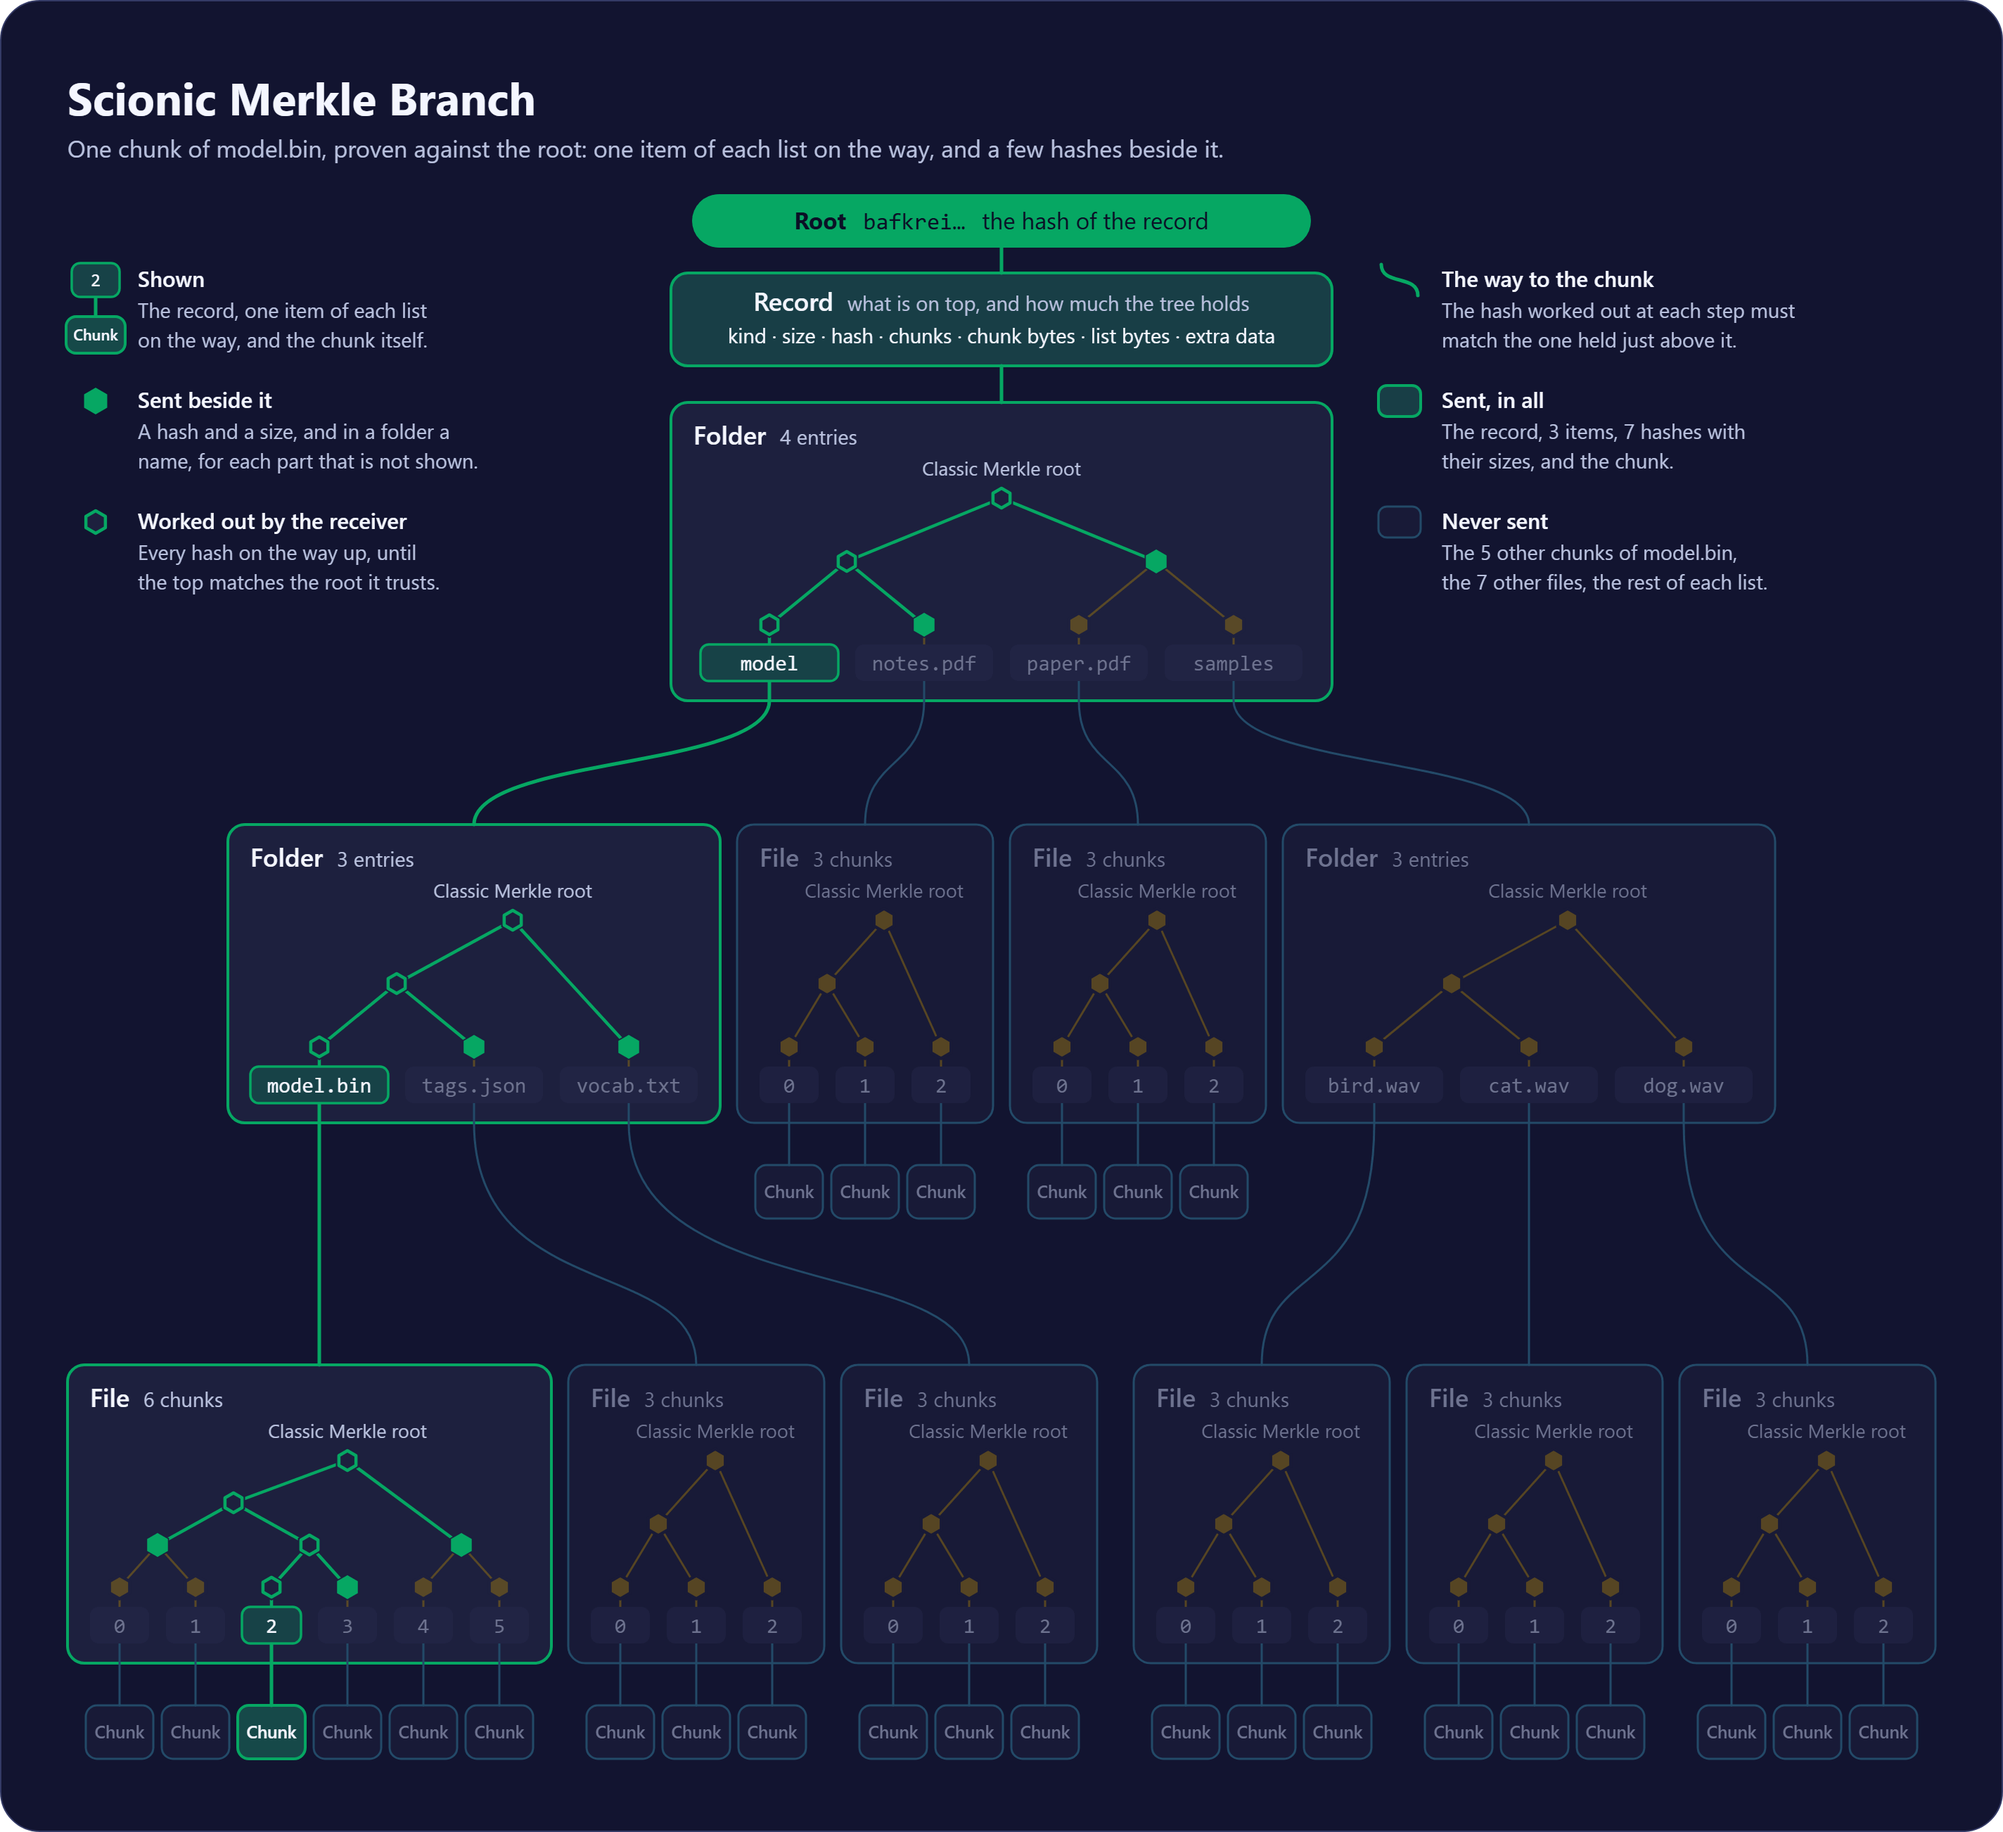
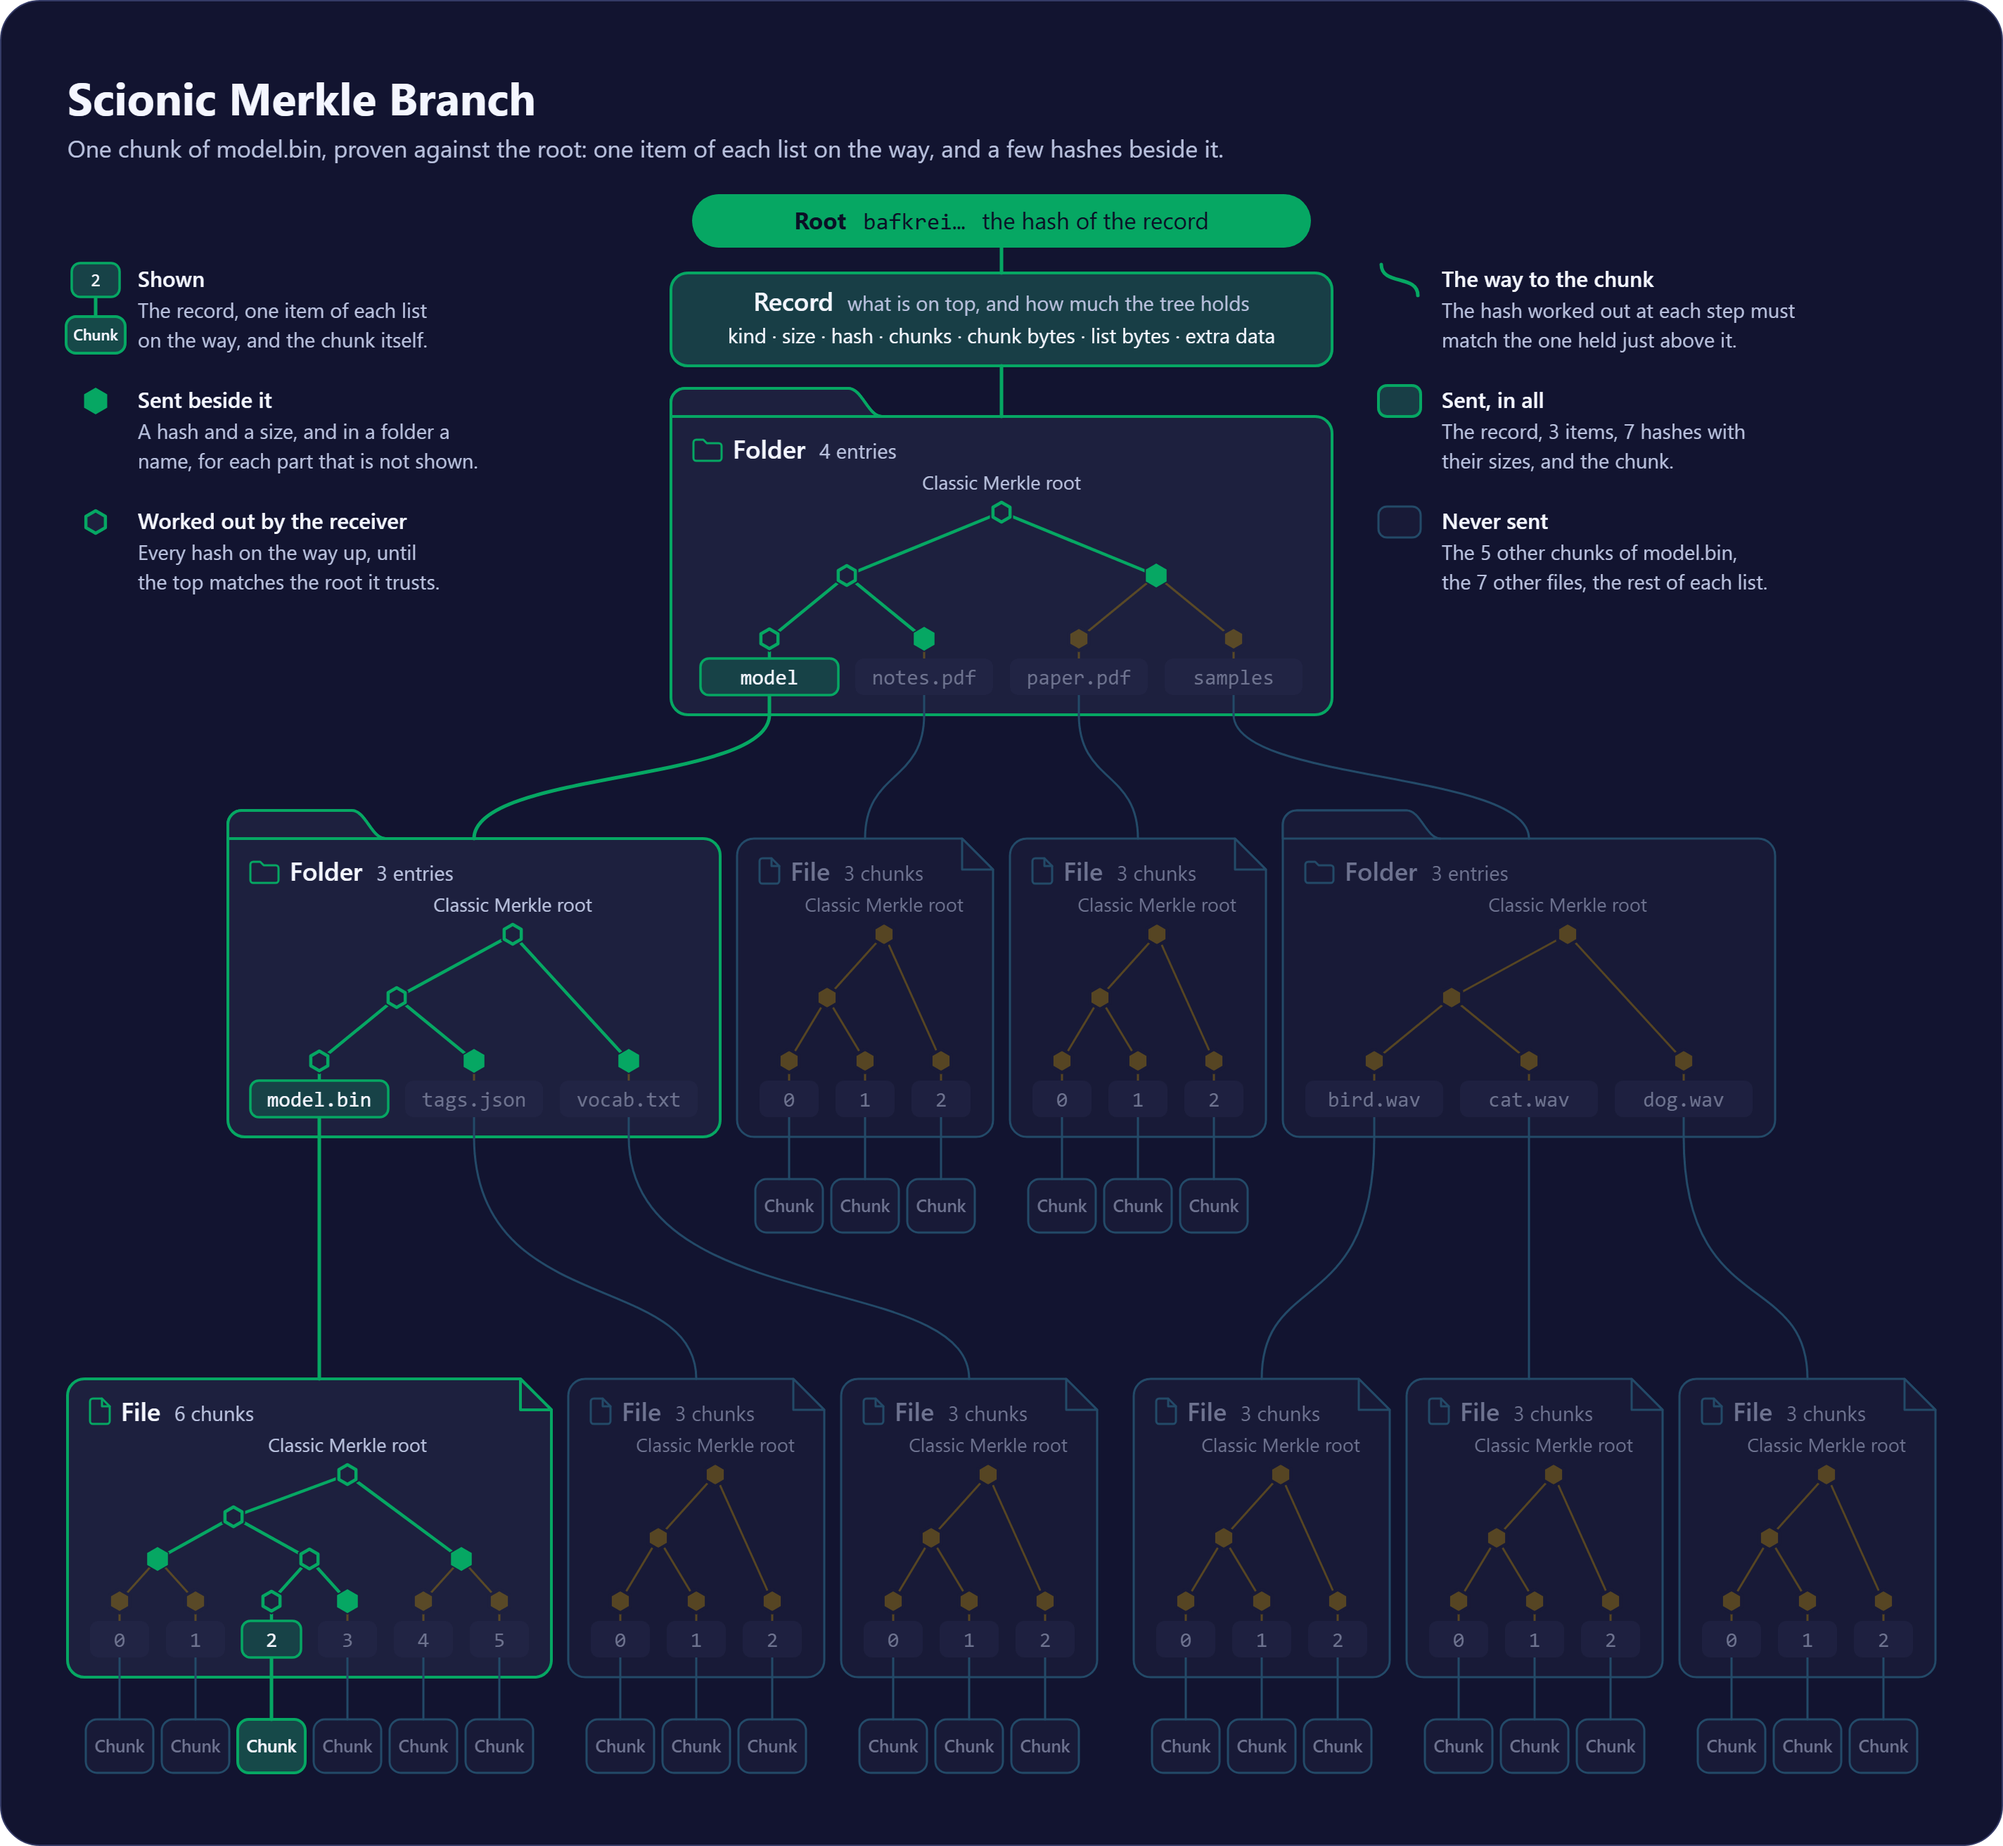
docs: a folder looks like a folder, and a file like a file
In the two tree pictures a folder and a file were the same box with a
different word in it, so the picture read as one large tree, and what is a
folder was hard to tell.

- A folder's box has a tab over its top left corner, as a folder has. A
  file's box has its top right corner folded down, as a sheet has.
- Each has a small picture of itself beside its word, and the key has
  both beside "Folder and file".
- In the tree picture the tab and the folded corner are tinted. In the
  branch picture they are outlines only, because there a fill says what
  is shown or sent.
- A box's place and size are those of its body, so the boxes of a row
  still line up at the top and at the bottom. A folder's tab stands over
  that, and the folder on top stands 10 units lower to leave it room.

diff --git a/docs/pictures/README.md b/docs/pictures/README.md
@@ -30,9 +30,10 @@ Everything a picture says is at the top of `pictures.mjs` or in the function tha
 
 - **`SYNC`** is the name of the protocol that asks for a file's chunks by their numbers.
 - **`TOP`, `LEFT` and `RIGHT`** are the names in the example tree: the folder on top holds a folder, two files and a folder, and each of those two folders holds three files. The names must be in the order of their bytes, as a folder's entries are, and the program refuses them otherwise. The first and the last name of `TOP` are the two folders.
-- **`CHUNKS`** is how many chunks each file has. Every file is drawn the way a folder is: a box with the Classic Merkle tree over its list, its chunks' numbers under the tree's leaves, and its chunks under those.
+- **`CHUNKS`** is how many chunks each file has. A file holds what a folder holds: the Classic Merkle tree over its list, with its chunks' numbers under the tree's leaves, and its chunks under those.
+- **A folder and a file are told apart by their outlines.** A folder's box has a tab over its top left corner, as a folder has. A file's box has its top right corner folded down, as a sheet has. Each has a small picture of itself beside its word. In the tree picture the tab and the folded corner are tinted. In the branch picture they are outlines only, because there a fill says what is shown or sent.
 - **No list in these pictures has fewer than three items.** The tree over two items is a single fork, which does not look like a tree. So the program refuses a folder with fewer than three entries, and a file with fewer than three chunks. The format itself has smaller ones: a file of 512 KiB or less is a single chunk, and its tree is that one leaf.
-- **Every folder and file box has one height,** that of the deepest tree, so that the boxes of a row line up at the top and at the bottom. A tree of fewer levels is drawn as tall as the deepest: every Classic Merkle root stands at one height in its box, and so does every leaf.
+- **Every folder and file box has one height,** that of the deepest tree, so that the boxes of a row line up at the top and at the bottom. A folder's tab stands over that height. A tree of fewer levels is drawn as tall as the deepest: every Classic Merkle root stands at one height in its box, and so does every leaf.
 - **The two tree pictures are 1,424 units wide,** a little wider than the table, so that the bottom row holds six files with their chunks at a size that can be read, and with room between one chunk and the next. If the files are given more chunks than fit, the program refuses them, and says how much room they take and how much there is.
 - **`PROVEN`** is the chunk that the branch picture proves, in the first file of the first folder. What is shown, what is sent beside it and what the receiver works out follow from it by the rule in [`spec/FORMAT.md`](../../spec/FORMAT.md), under "Showing a part".
 - **The rows of the table** are in `table()`.
